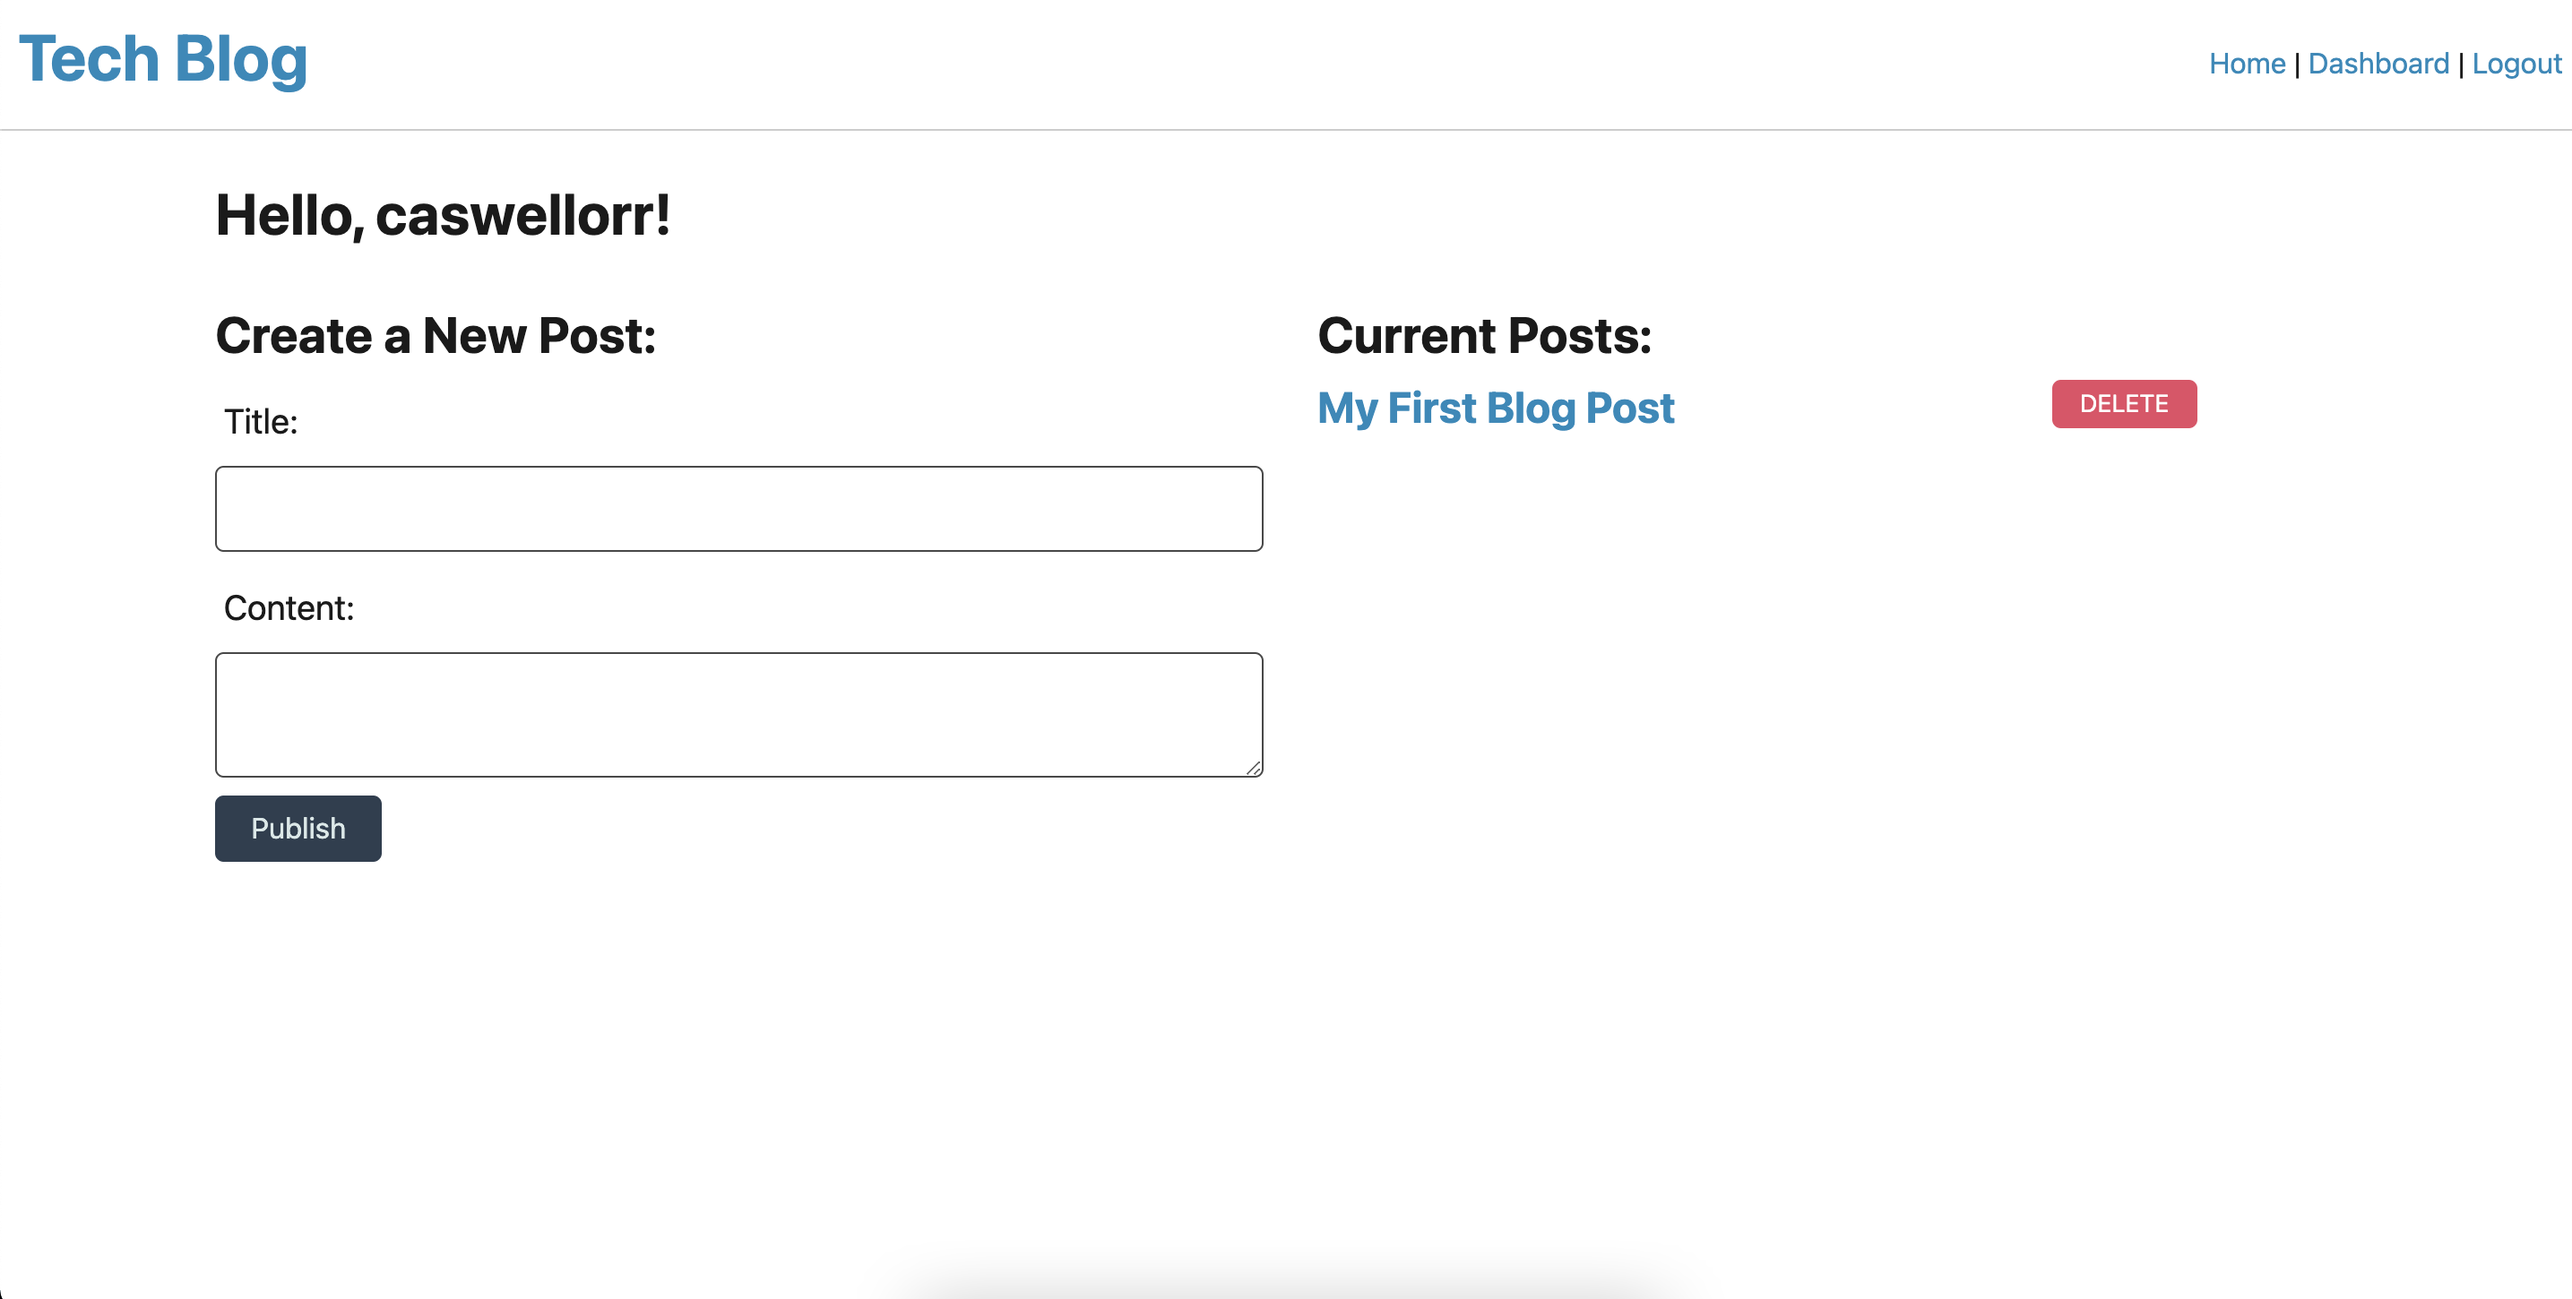
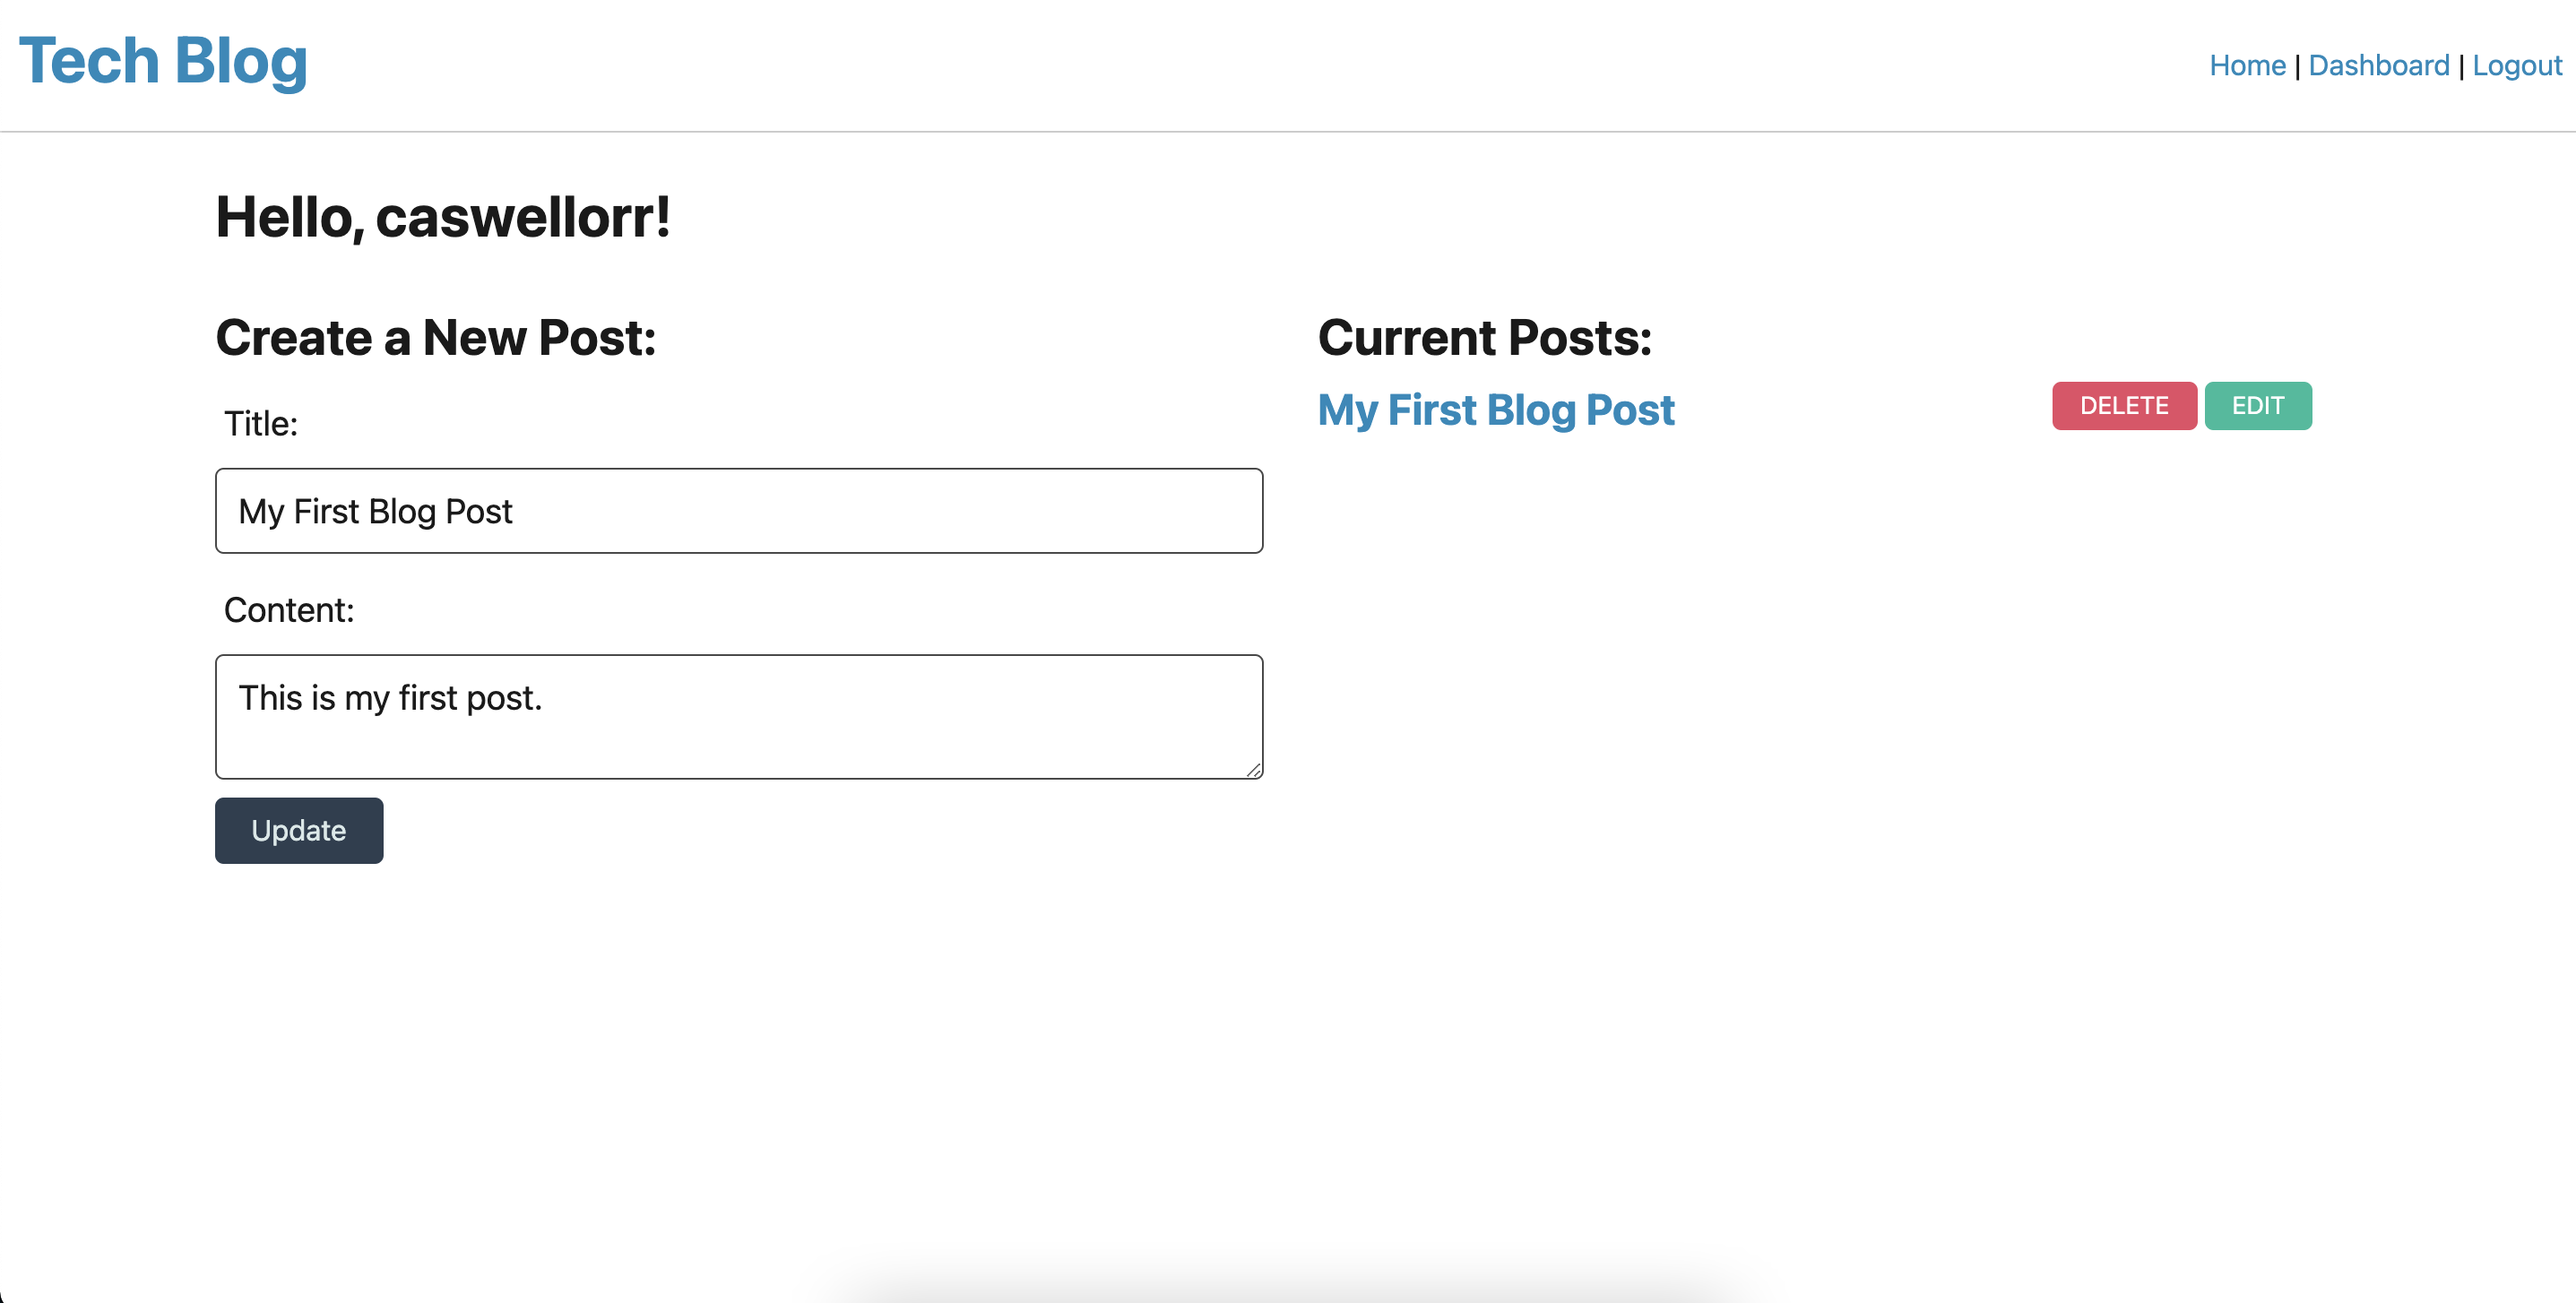
updated readme. final product.

diff --git a/README.md b/README.md
@@ -22,7 +22,7 @@ The Tech Blog application follows the MVC paradigm in its architectural structur
 
   ![alt text](./Assets/screenshot2.png)
 
-* User dashboard where they can create a new post and view history of posts:
+* User dashboard where they can create a new post or update an old one:
 
   ![alt text](./Assets/screenshot3.png)
 
@@ -33,15 +33,7 @@ The Tech Blog application follows the MVC paradigm in its architectural structur
 
 ## Takeaways 💡
 
+MVC kept me organized. I was able to seamlessly connect the front and back ends. This application was a great refresher of front end JavaScript and DOM traversal. I enjoyed pushing myself through this project. 
 
 ----
 © 2021 Caswell Orr. Confidential and Proprietary. All Rights Reserved.
-
-
-WHEN I click on one of my existing posts in the dashboard
-THEN I am able to delete or update my post and taken back to an updated dashboard
-WHEN I click on the logout option in the navigation
-THEN I am signed out of the site
-WHEN I am idle on the site for more than a set time
-THEN I am able to view comments but I am prompted to log in again before I can add, update, or delete comments
-```
